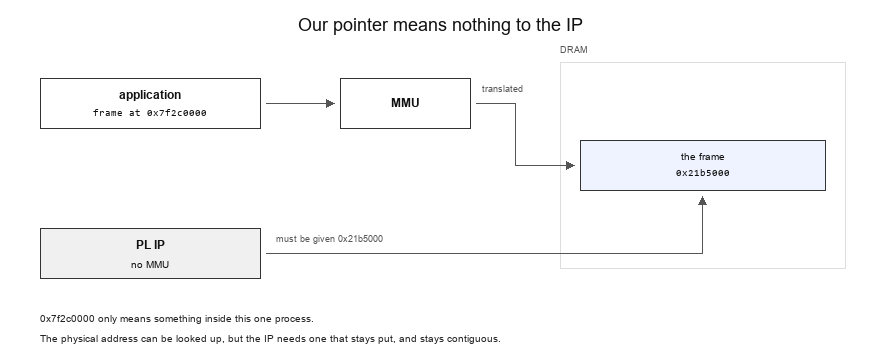
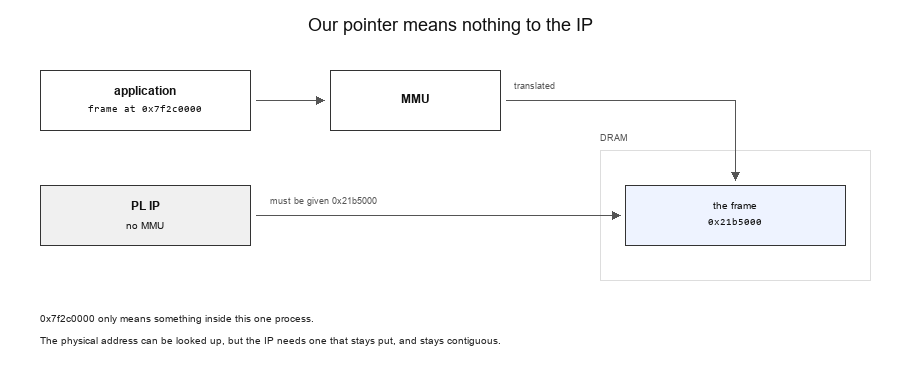
Part 4: replace the ascii stack with a figure, fix the ioctl/read-write figure
Adds "How one call reaches the IP" (application -> driver -> IP for one
ioctl, with the system call boundary) in place of the ascii block, and
renumbers the figures that follow.

The ioctl vs read/write figure drew the application wired straight to the
IP's registers with no driver in between. Both channels now route through
the driver.

Also redraws figure 1 so the application and PL IP paths converge on one
frame box from different sides instead of wandering across the page.

diff --git a/posts/embedded_linux/embedded-linux-zynq-soc-part-4.md b/posts/embedded_linux/embedded-linux-zynq-soc-part-4.md
@@ -62,17 +62,9 @@ A driver runs in kernel space, so it can do things an application cannot:
 * allocate memory the IP can reach, and keep the caches correct
 * decide whether a second process may open the device while the first still has it
 
-```text
-application  (userspace)
-    |
-    |  open / ioctl / read / write / poll  on  /dev/imgproc0
-    v
-our driver  (kernel space)
-    |
-    |  registers, interrupt, DMA
-    v
-PL IP
-```
+![][image2]
+
+**Figure 2: How one call reaches the IP. The application calls ioctl(), our imgproc_ioctl() runs in the kernel, and that writes the register in the IP.**
 
 The downside is that mistakes are worse.
 
@@ -93,9 +85,9 @@ The customer can use this to talk to the hardware according to the required usec
 
 There are two separate questions about any driver. What does it look like to the application, and how did Linux find the hardware?
 
-![][image2]
+![][image3]
 
-**Figure 2: The two views, and where our PL IP lands in each of them.**
+**Figure 3: The two views, and where our PL IP lands in each of them.**
 
 ### Why can PCIe and USB be enumerated?
 
@@ -186,9 +178,9 @@ Both move data, so why do we need two ways?
 
 If we only had `write`, we would have to invent our own rule, such as the first four bytes are the command and the rest is the frame. `ioctl` gives us that already.
 
-![][image3]
+![][image4]
 
-**Figure 3: ioctl carries a command. write and read carry the frame. They go to different parts of the IP.**
+**Figure 4: ioctl carries a command. write and read carry the frame. They go to different parts of the IP.**
 
 ### poll
 
@@ -295,9 +287,9 @@ The two structs are the wiring.
 
 The rest of this section goes through these in the order they run.
 
-![][image4]
+![][image5]
 
-**Figure 4: probe() runs once, when the compatible string matches a device tree node. remove() undoes it when the module is unloaded.**
+**Figure 5: probe() runs once, when the compatible string matches a device tree node. remove() undoes it when the module is unloaded.**
 
 ## 6.2 imgproc_of_match: how Linux finds the driver {#sec-6-2}
 
@@ -307,9 +299,9 @@ Linux compares the two strings. If they are equal, it calls `probe()`.
 
 That is the whole mechanism. No address checking, no reading of the hardware to see what is there. Just a string compare.
 
-![][image5]
+![][image6]
 
-**Figure 5: The compatible string is the only connection between the device tree node and the driver.**
+**Figure 6: The compatible string is the only connection between the device tree node and the driver.**
 
 ### What if it does not match?
 
@@ -367,9 +359,9 @@ writel(1, dev->base + IPISR);   /* IPISR is 0x120 */
 
 Same register, same offset from the datasheet. Only the way we reach it changed.
 
-![][image6]
+![][image7]
 
-**Figure 6: The address in reg becomes a kernel pointer, and the offset lands on the same register the Part 3 application wrote to.**
+**Figure 7: The address in reg becomes a kernel pointer, and the offset lands on the same register the Part 3 application wrote to.**
 
 ## 6.5 imgproc_open and imgproc_release {#sec-6-5}
 
@@ -482,3 +474,5 @@ In the next blog we fill in this skeleton and run it on the board: the device tr
 [image5]: images/image5_p4.png
 
 [image6]: images/image6_p4.png
+
+[image7]: images/image7_p4.png
